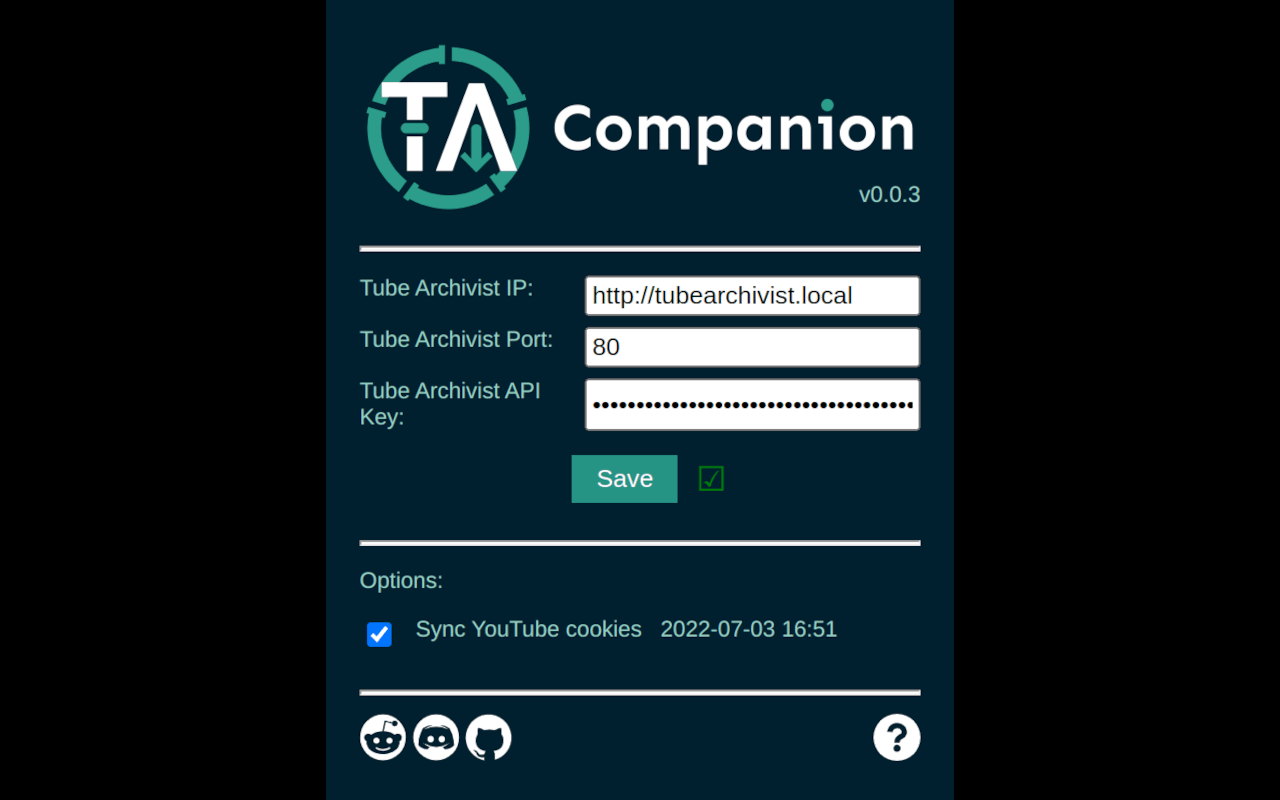
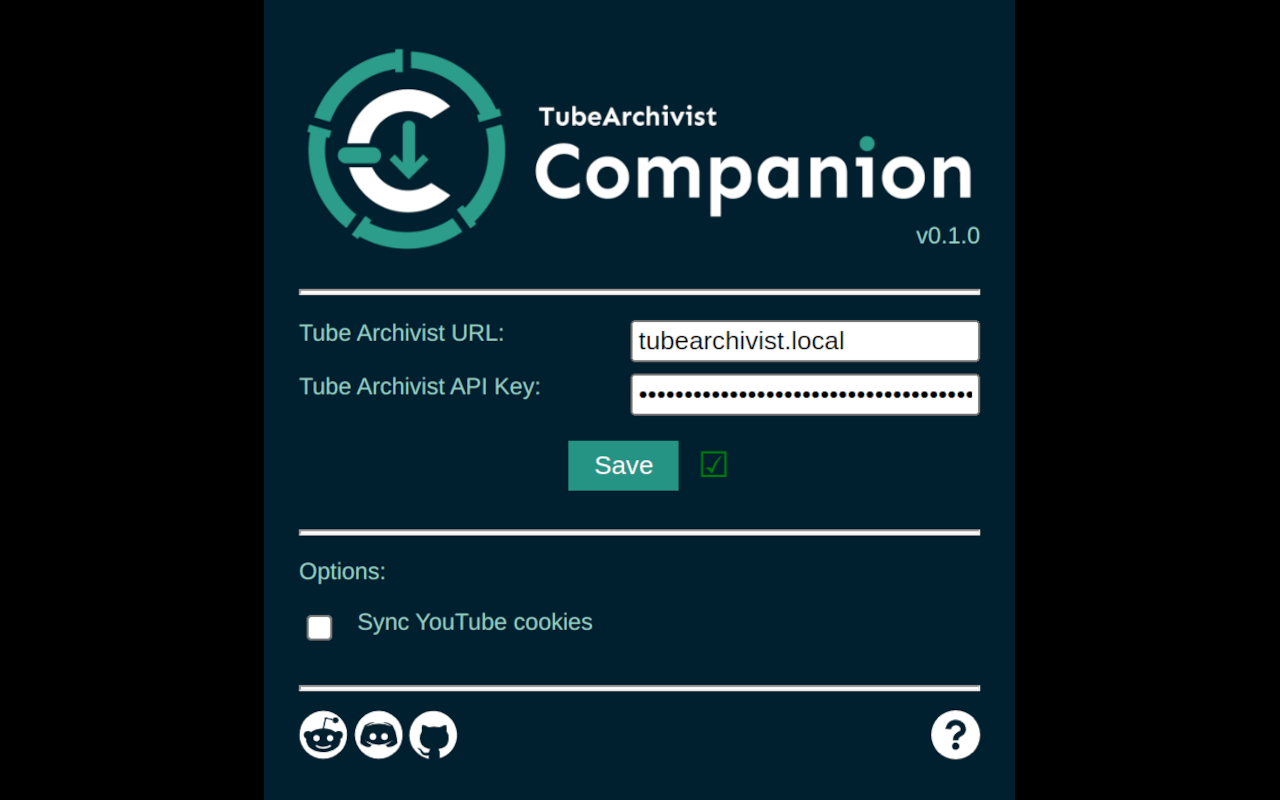
update artwork and documentation

Changed region(s): [[0.1875, 0.0, 0.8125, 1.0]]

diff --git a/README.md b/README.md
@@ -1,19 +1,35 @@
 ![Tube Archivist Companion](assets/tube-archivist-companion-banner.png?raw=true "Tube Archivist Companion Banner")  
 
-<h1 align="center">Tube Archivist Companion for your Browser</h1>
+<h1 align="center">Browser Extension for Tube Archivist</h1>
 <div align="center">
 <a href="https://www.tilefy.me" target="_blank"><img src="https://tiles.tilefy.me/t/tubearchivist-firefox.png" alt="tubearchivist-firefox" title="TA Companion Firefox users" height="50" width="190"/></a>
 <a href="https://www.tilefy.me" target="_blank"><img src="https://tiles.tilefy.me/t/tubearchivist-chrome.png" alt="tubearchivist-chrome" title="TA Companion Chrome users" height="50" width="190"/></a>
 </div>
 
 ## Core Functionality
-A browser extension to bridge YouTube with [Tube Archivist](https://github.com/tubearchivist/tubearchivist). This extension allows you to do the following:
-- Add your Tube Archivist connection details in the addon popup
-- Add a download button to the popup for YouTube links
-- Add a subscribe button to subscribe to channels and playlists
+This is a browser extension to bridge YouTube with [Tube Archivist](https://github.com/tubearchivist/tubearchivist), your self hosted YouTube media server.
+- Add your Tube Archivist connection details in the addon popup.
+- On YouTube video pages, inject a download button to download that video and a subscribe button to subscribe to that channel.
+- On YouTube channel pages, inject a button to subscribe to the channel or download the complete channel.
+- Throughout most places, hover over the top left corner of a video thumbnail to reveal a download button for that video.
 - Sync your cookies for yt-dlp.
 
-![popup screenshot](assets/screenshot.png?raw=true "Tube Archivist Companion Popup") 
+## Screenshots
+![popup screenshot](assets/screenshot.png?raw=true "Tube Archivist Companion Popup")
+Popup to enter your connection details.
+<br><br>
+
+![video page](assets/screenshot-video.png?raw=true "Tube Archivist Companion Video Page")
+Button injected on video page to download the video or subscribe to the channel.
+<br><br>
+
+![search page](assets/screenshot-search.png?raw=true "Tube Archivist Companion Search Page")
+Download button injected showing when hovering over top left corned of thumbnail
+<br><br>
+
+![channel page](assets/screenshot-channel.png?raw=true "Tube Archivist Companion Channel Page")
+Channel button injected to subscribe or download whole channel, video download button showing when hovering over topleft corner of thumbnail.
+<br>
 
 ## Install
 - Firefox: The addon is available on the [Extension store](https://addons.mozilla.org/addon/tubearchivist-companion/).
@@ -23,35 +39,36 @@ A browser extension to bridge YouTube with [Tube Archivist](https://github.com/t
 After a new release here on GitHub, you'll get updates automatically in your browser. Due to the verification process, for Firefox this usually takes 1-2 hours, for Chrome 2-3 days.
 
 ## Permissions
-- **Access your data for www.youtube.com**: Needed for the addon to know your current page on YouTube to send the link to Tube Archivist.
-- **Storage**: Needed to store your connection details, needed to store your last visited YouTube link within the browser.
+- **Access your data for www.youtube.com**: Needed to inject download and subscribe buttons directly into the page.
+- **Storage**: Needed to store your connection details.
 - **Cookie**: Needed to read your cookies for youtube.com to access restricted videos.
 
 ## Setup
-- **URL**: This is where your Tube Archivist instance is located. Can be a host name or a IP address, use a full URL with protocol, e.g. *http://*. 
-- **Port**: Network port of TA.
-- **API key**: You can find your API key on the settings page of your Tube Archivist instance. 
+- **URL**: This is where your Tube Archivist instance is located. Can be a host name or an IP address. Add the port if needed at the end, e.g. `:8000`.
+- **API key**: You can find your API key on the settings page of your Tube Archivist instance.
 
 A green checkmark will appear next to the *Save* button if your connection is working.
 
 ## Options
-- **Sync YouTube cookies**: Send your cookies to TubeArchivist to use for yt-dlp requests. 
+- **Sync YouTube cookies**: Send your cookies to TubeArchivist to use for yt-dlp requests.
 
 ## Test this extension
 Use the correct manifest file for your browser. Either rename the browser specific file to `manifest.json` before loading the addon or symlink it to the correct location, e.g. `ln -s manifest-firefox.json manifest.json`.
 - Firefox
   - Open `about:debugging#/runtime/this-firefox`
   - Click on *Load Temporary Add-on*
-  - Select the *manifest.json* file to load the addon. 
+  - Select the *manifest.json* file to load the addon.
+  - You can *inspect* background.js by lunching the debug tools from there.
 - Chrome / Chromium
   - Open `chrome://extensions/`
   - Toggle *Developer mode* on top right
   - Click on *Load unpacked*
   - Open the folder containing the *manifest.json* file.
+  - Click on *Service Worker* to open the dev tools at background.js. 
 
 ## Compatibility
-- Verify that you are running the latest version of Tube Archivist as the API is under development and will change.
-- For testing this extension between releases, use the *unstable* builds of Tube Archivist, only for your tesing environment.
+- Verify that you are running the [latest version](https://github.com/tubearchivist/tubearchivist/releases/latest) of Tube Archivist as the API is under development and will change.
+- For testing this extension between releases, use the *unstable* builds of Tube Archivist, only for your testing environment.
 
 ## Roadmap
 Join us on [Discord](https://discord.gg/AFwz8nE7BK) and help us improve and extend this project. This is a list of planned features, in no particular order:
@@ -60,3 +77,4 @@ Join us on [Discord](https://discord.gg/AFwz8nE7BK) and help us improve and exte
 - [ ] Implement download/subscribe button for playlists
 - [ ] Implement download button for videos on playlist
 - [ ] Error handling for connection errors
+- [X] Dynamically inject buttons with mutation observer
